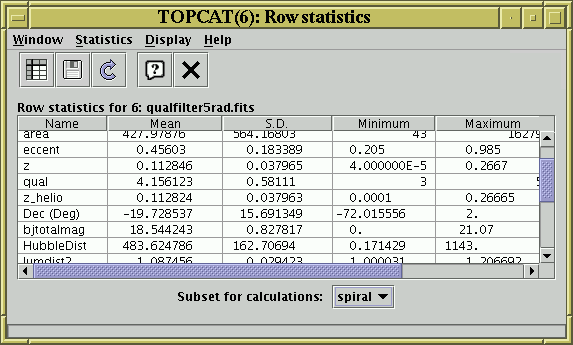
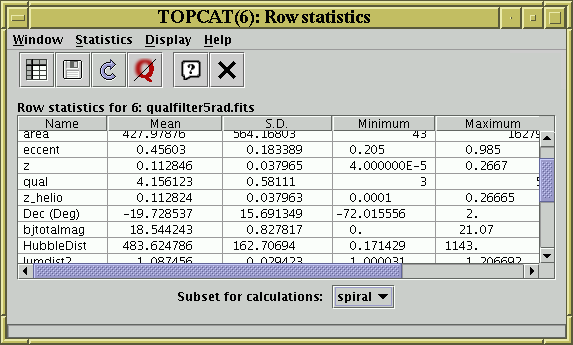
topcat: add GKQuantiler option to Stats window
The Statistics Window now has a new control that lets you choose
the algorithm for quantile calculation: optionally the GKArray-based
method that is slower and approximate but operates in fixed memory
can be used.

Changed region(s): [[0.2077, 0.1449, 0.445, 0.2609]]

diff --git a/topcat/src/main/uk/ac/starlink/topcat/StatsWindow.java b/topcat/src/main/uk/ac/starlink/topcat/StatsWindow.java
@@ -41,6 +41,7 @@ import uk.ac.starlink.table.gui.NumericCellRenderer;
 import uk.ac.starlink.table.gui.ProgressBarStarTable;
 import uk.ac.starlink.table.gui.StarJTable;
 import uk.ac.starlink.table.gui.StarTableColumn;
+import uk.ac.starlink.ttools.filter.GKQuantiler;
 import uk.ac.starlink.ttools.filter.Quantiler;
 import uk.ac.starlink.ttools.filter.SortQuantiler;
 import uk.ac.starlink.ttools.filter.TableStats;
@@ -65,6 +66,7 @@ public class StatsWindow extends AuxWindow {
     private final MetaColumnTableModel statsTableModel_;
     private final BitSet hideColumns_ = new BitSet();
     private final Action recalcAct_;
+    private final ToggleButtonModel qapproxModel_;
     private StatsCalculator activeCalculator_;
     private StatsCalculator lastCalc_;
     private SaveTableQueryWindow saveWindow_;
@@ -130,6 +132,7 @@ public class StatsWindow extends AuxWindow {
          * since (because of the expense) quantiles are not calculated
          * unless explicitly asked for. */
         statsColumnModel.addColumnModelListener( new TableColumnModelAdapter() {
+            @Override
             public void columnAdded( TableColumnModelEvent evt ) {
                 MetaColumn col = getMetaColumn( evt.getToIndex() );
                 boolean isQuant = col instanceof QuantileColumn;
@@ -189,10 +192,19 @@ public class StatsWindow extends AuxWindow {
             }
         };
 
+        /* Configure a toggle for quantile calculation implementation. */
+        qapproxModel_ =
+            new ToggleButtonModel( "Approximate quantile algorithm",
+                                   ResourceIcon.QAPPROX,
+                                   "If selected, quantiles are calculated "
+                                 + "slower, approximately, "
+                                 + "but in fixed memory");
+
         /* Add actions to toolbar. */
         getToolBar().add( saveAct );
         getToolBar().add( importAct );
         getToolBar().add( recalcAct_ );
+        getToolBar().add( qapproxModel_.createToolbarButton() );
         getToolBar().addSeparator();
 
         /* Add Export menu. */
@@ -205,6 +217,7 @@ public class StatsWindow extends AuxWindow {
         JMenu statsMenu = new JMenu( "Statistics" );
         statsMenu.setMnemonic( KeyEvent.VK_S );
         statsMenu.add( new JMenuItem( recalcAct_ ) );
+        statsMenu.add( qapproxModel_.createMenuItem() );
         getJMenuBar().add( statsMenu );
 
         /* Add a menu for controlling column display. */
@@ -940,16 +953,10 @@ public class StatsWindow extends AuxWindow {
             }
             catch ( OutOfMemoryError e ) {
                 cancel();
-                if ( hasQuant_ ) {
+                if ( hasQuant_ && !qapproxModel_.isSelected() ) {
                     final Object msg = new String[] {
-                        "Out of memory while calculating quantiles.",
-                        "",
-                        "Quantiles (median, quartiles, percentiles etc)",
-                        "are much more expensive to calculate than other",
-                        "statistical quantities.",
-                        "To calculate statistics for this table you will",
-                        "need to undisplay these columns, or start again",
-                        "with more memory.",
+                        "Out of memory while calculating quantiles:",
+                        "try setting Approximate Quantile Algorithm option."
                     };
                     SwingUtilities.invokeLater( new Runnable() {
                         public void run() {
@@ -992,8 +999,14 @@ public class StatsWindow extends AuxWindow {
                                                         () -> cancelled_ );
             table = SubsetStarTable.createTable( table, rset_ );
             boolean doCard = true;
-            Supplier<Quantiler> qSupplier =
-                hasQuant_ ? SortQuantiler::new : null;
+            final Supplier<Quantiler> qSupplier;
+            if ( hasQuant_ ) {
+                qSupplier = qapproxModel_.isSelected() ? GKQuantiler::new
+                                                       : SortQuantiler::new;
+            }
+            else {
+                qSupplier = null;
+            }
             TableStats tstats =
                 TableStats.calculateStats( table, runner, qSupplier, doCard );
             long nrow = tstats.getRowCount();

diff --git a/topcat/src/main/uk/ac/starlink/topcat/ResourceIcon.java b/topcat/src/main/uk/ac/starlink/topcat/ResourceIcon.java
@@ -254,6 +254,7 @@ public class ResourceIcon implements Icon {
         APPROVE_ALL = makeIcon( "approve_all.png" ),
         MEASURE = makeIcon( "measure.png" ),
         LOCK = makeIcon( "lock2.png" ),
+        QAPPROX = makeIcon( "qapprox.png" ),
 
         /* Plot2 icons. */
         UP_DOWN = makeIcon( "updown8.png" ),
